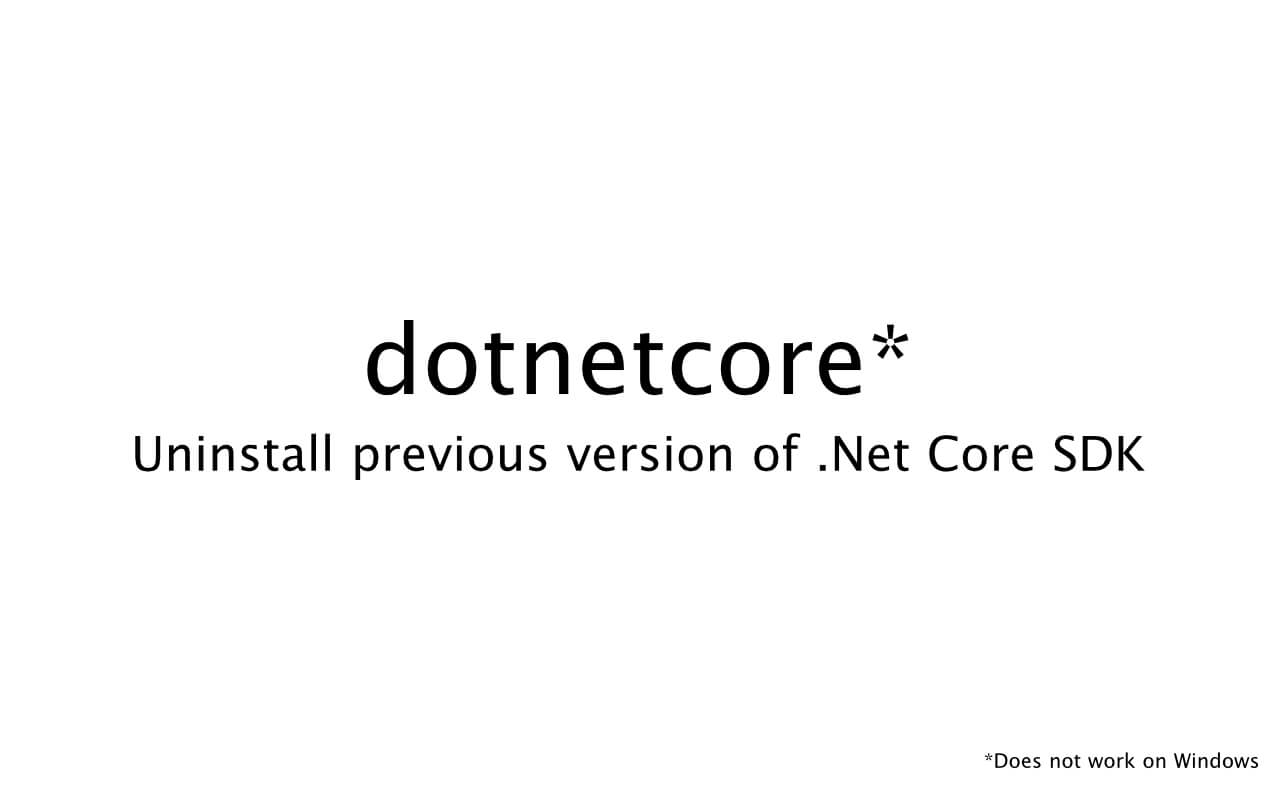
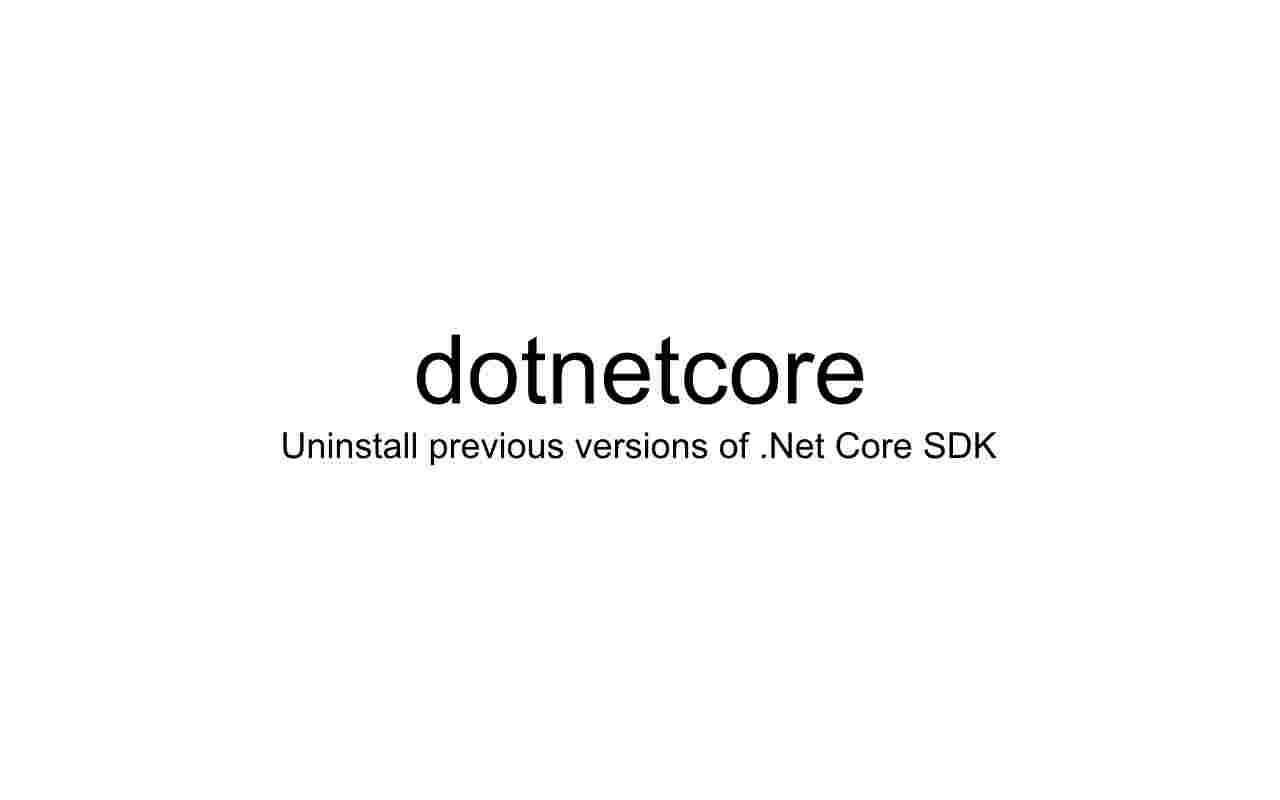
dotnetcore blog updated

Changed region(s): [[0.0938, 0.4062, 0.9062, 0.5938], [0.7812, 0.9375, 1.0, 0.9688]]

diff --git a/content/blog/dotnetcore-a-dot-net-core-sdk-uninstaller-for-POSIX-systems.md b/content/blog/dotnetcore-a-dot-net-core-sdk-uninstaller-for-POSIX-systems.md
@@ -1,11 +1,11 @@
 ---
-title: "dotnetcore: A .Net Core SDK Uninstaller for POSIX Systems"
+title: "dotnetcore: A .Net Core SDK Uninstaller for POSIX (now with Windows support)"
 date: 2019-07-19T17:09:20+12:00
-lastmod: 2019-09-07T14:33:10+12:00
+lastmod: 2019-09-23T14:33:10+12:00
 draft: false
 categories: ["CLI"]
 tags: [".Net Core", "CLI", "Python"]
-description: "There is no official way to remove previous versions of .Net Core SDKs in POSIX systems, this tool can help you with that."
+description: "There is no official way to remove previous versions of .Net Core SDKs in POSIX systems, this tool can help you with that. This tool can also be used in Windows."
 images: ["/img/blog/dotnetcore.jpg"]
 ads: true
 # htmlScripts: []
@@ -28,7 +28,7 @@ siteMapImages:
 
 There is no official way to uninstall previous versions of .Net Core SDK on POSIX type operating systems, this tool may help you solve that problem.
 
-> Note: This application only works on Linux type systems.
+In Windows this tool can help you launch uninstaller as easy as writing a command line.
 
 The repository can be found at [https://github.com/akshaybabloo/dot-net-core-uninstaller](https://github.com/akshaybabloo/dot-net-core-uninstaller).
 
@@ -59,17 +59,29 @@ Commands:
 
 ```
 
-To remove a version of .Net Core SDK or Runtimes:
-
-```bash
-> dotnetcore remove --sdk 1.0.0
-> dotnetcore remove --runtime 1.0.0
-```
-
 To list all installed .Net Core libraries
 
 ```bash
-> dotnetcore list
+dotnetcore list
+```
+
+#### Using with POSIX systems
+
+To remove a version of .Net Core SDK or Runtimes:
+
+```bash
+dotnetcore remove --sdk 1.0.0
+dotnetcore remove --runtime 1.0.0
+```
+
+#### Using with Windows systems
+
+> Note: Windows doesn't support removing runtime libraries individually from the uninstaller.
+
+To remove a version of .Net Core SDK or Runtime:
+
+```bash
+dotnetcore remove --sdk 1.0.0
 ```
 
 ### Using as a Module
@@ -78,6 +90,8 @@ To list all installed .Net Core libraries
 from dot_net_core_uninstaller import Uninstaller
 
 remove_dotnet = Uninstaller()
-remove_dotnet.delete_runtime("1.0.0")
-remove_dotnet.delete_sdk("1.0.0")
+
+remove_dotnet.delete_runtime("1.0.0")  # Does not work on Windows
+remove_dotnet.delete_sdk("1.0.0")  # Does not work on Windows
+remove_dotnet.delete_sdk_runtime_windows("1.0.0")  # Does not work on POSIX
 ```
